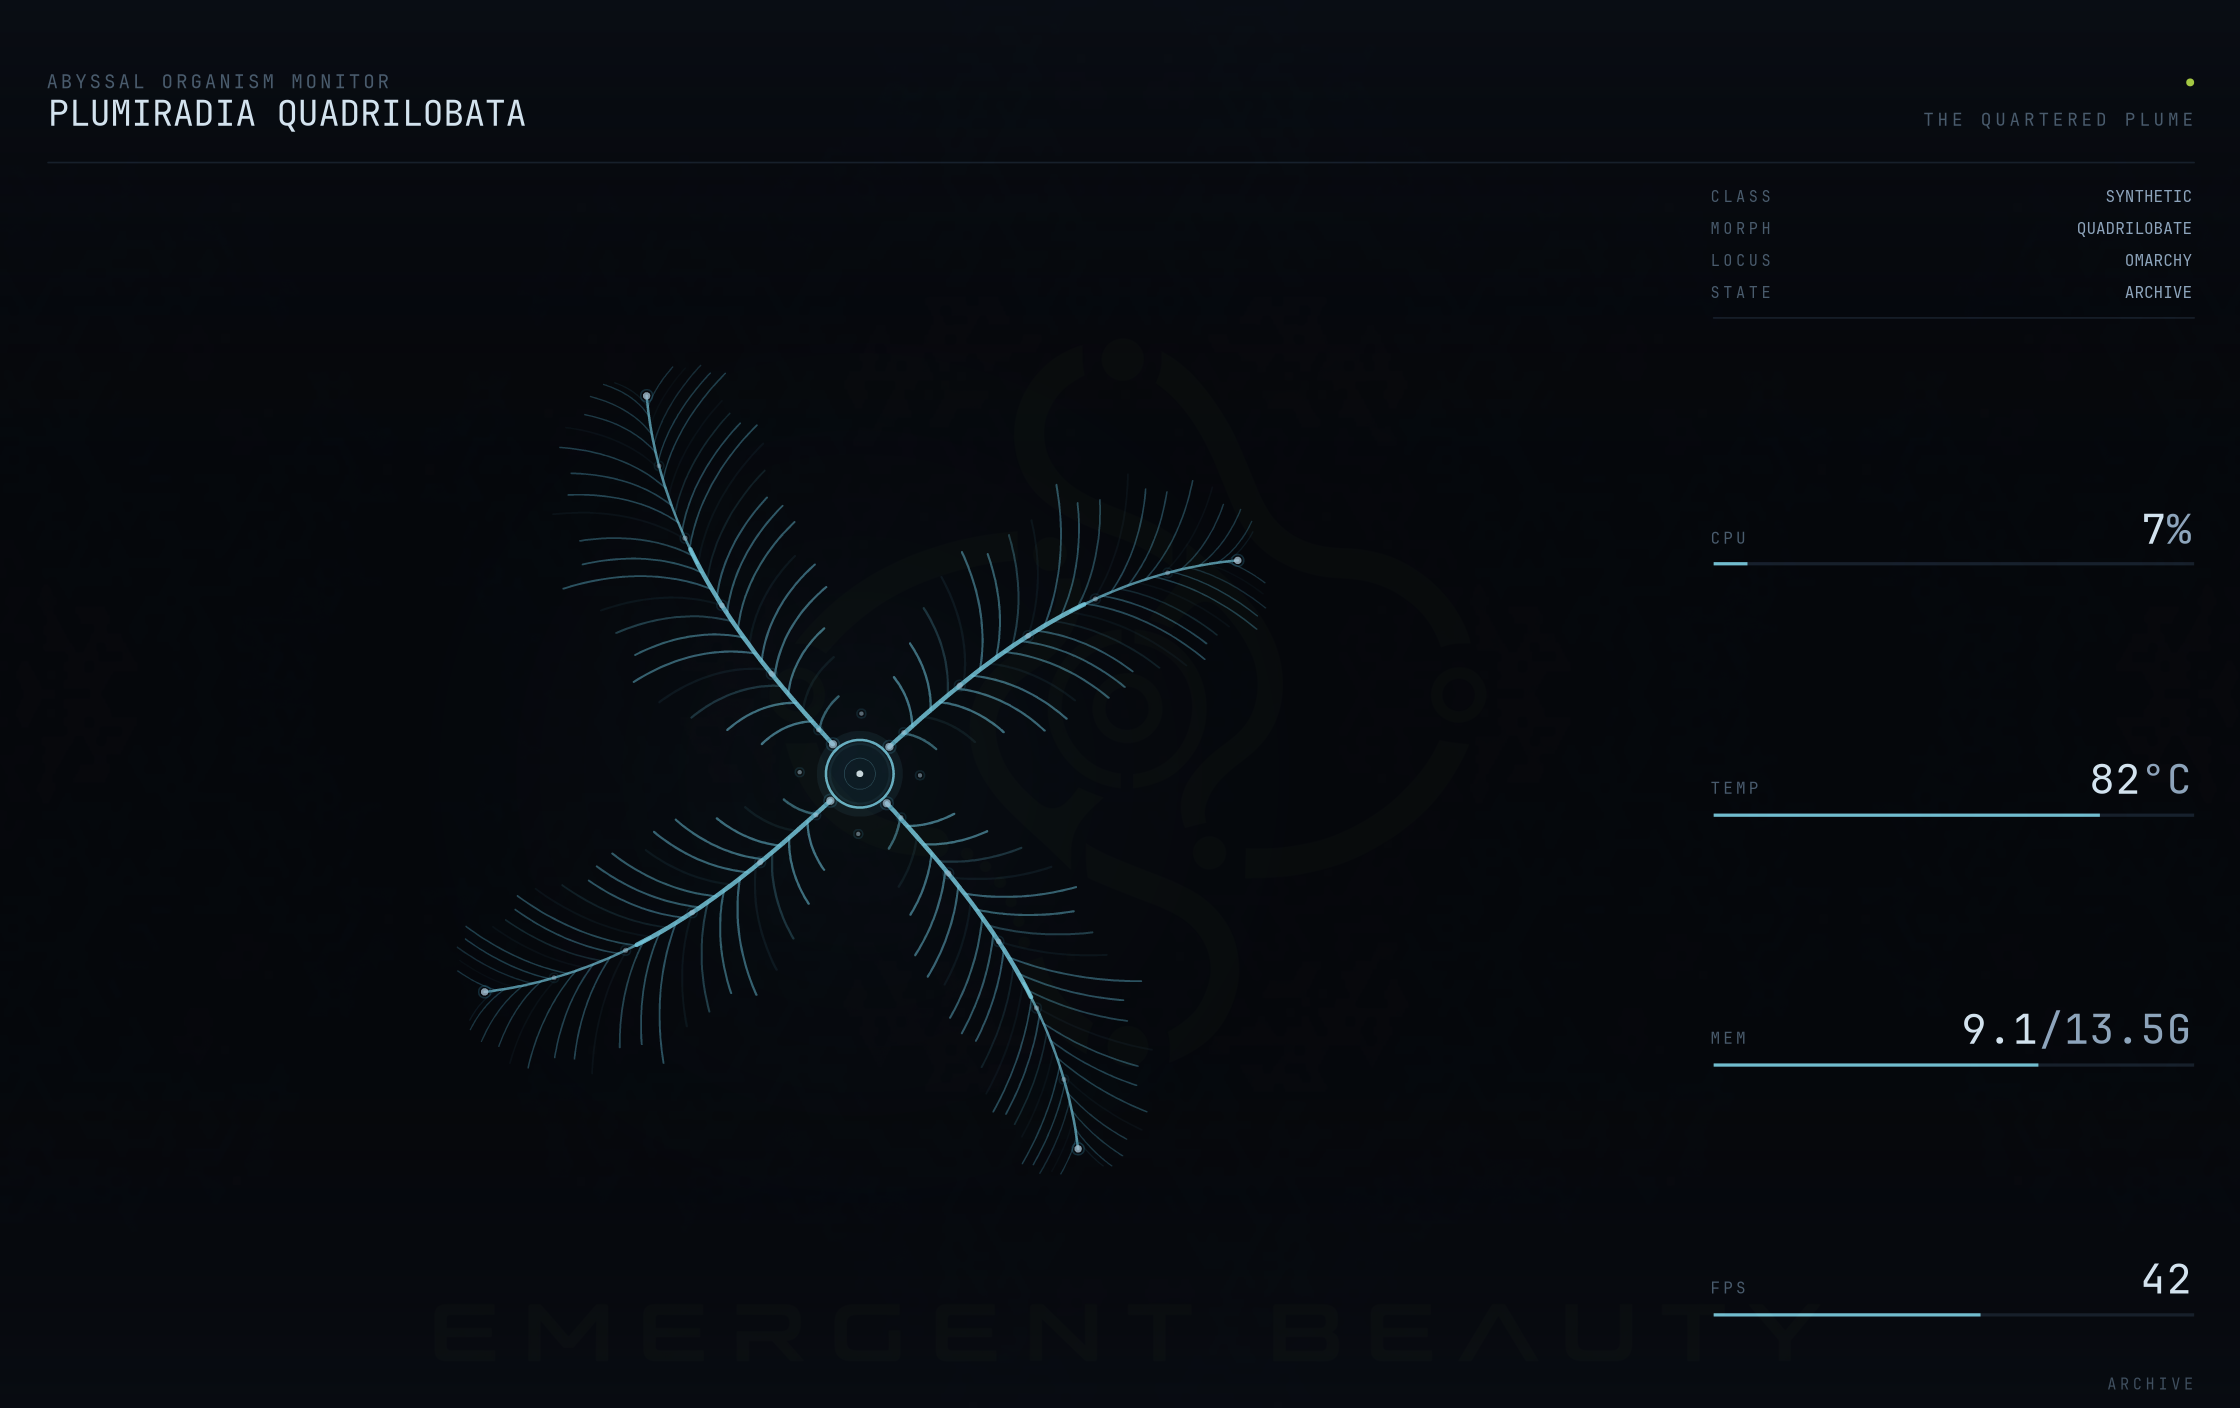
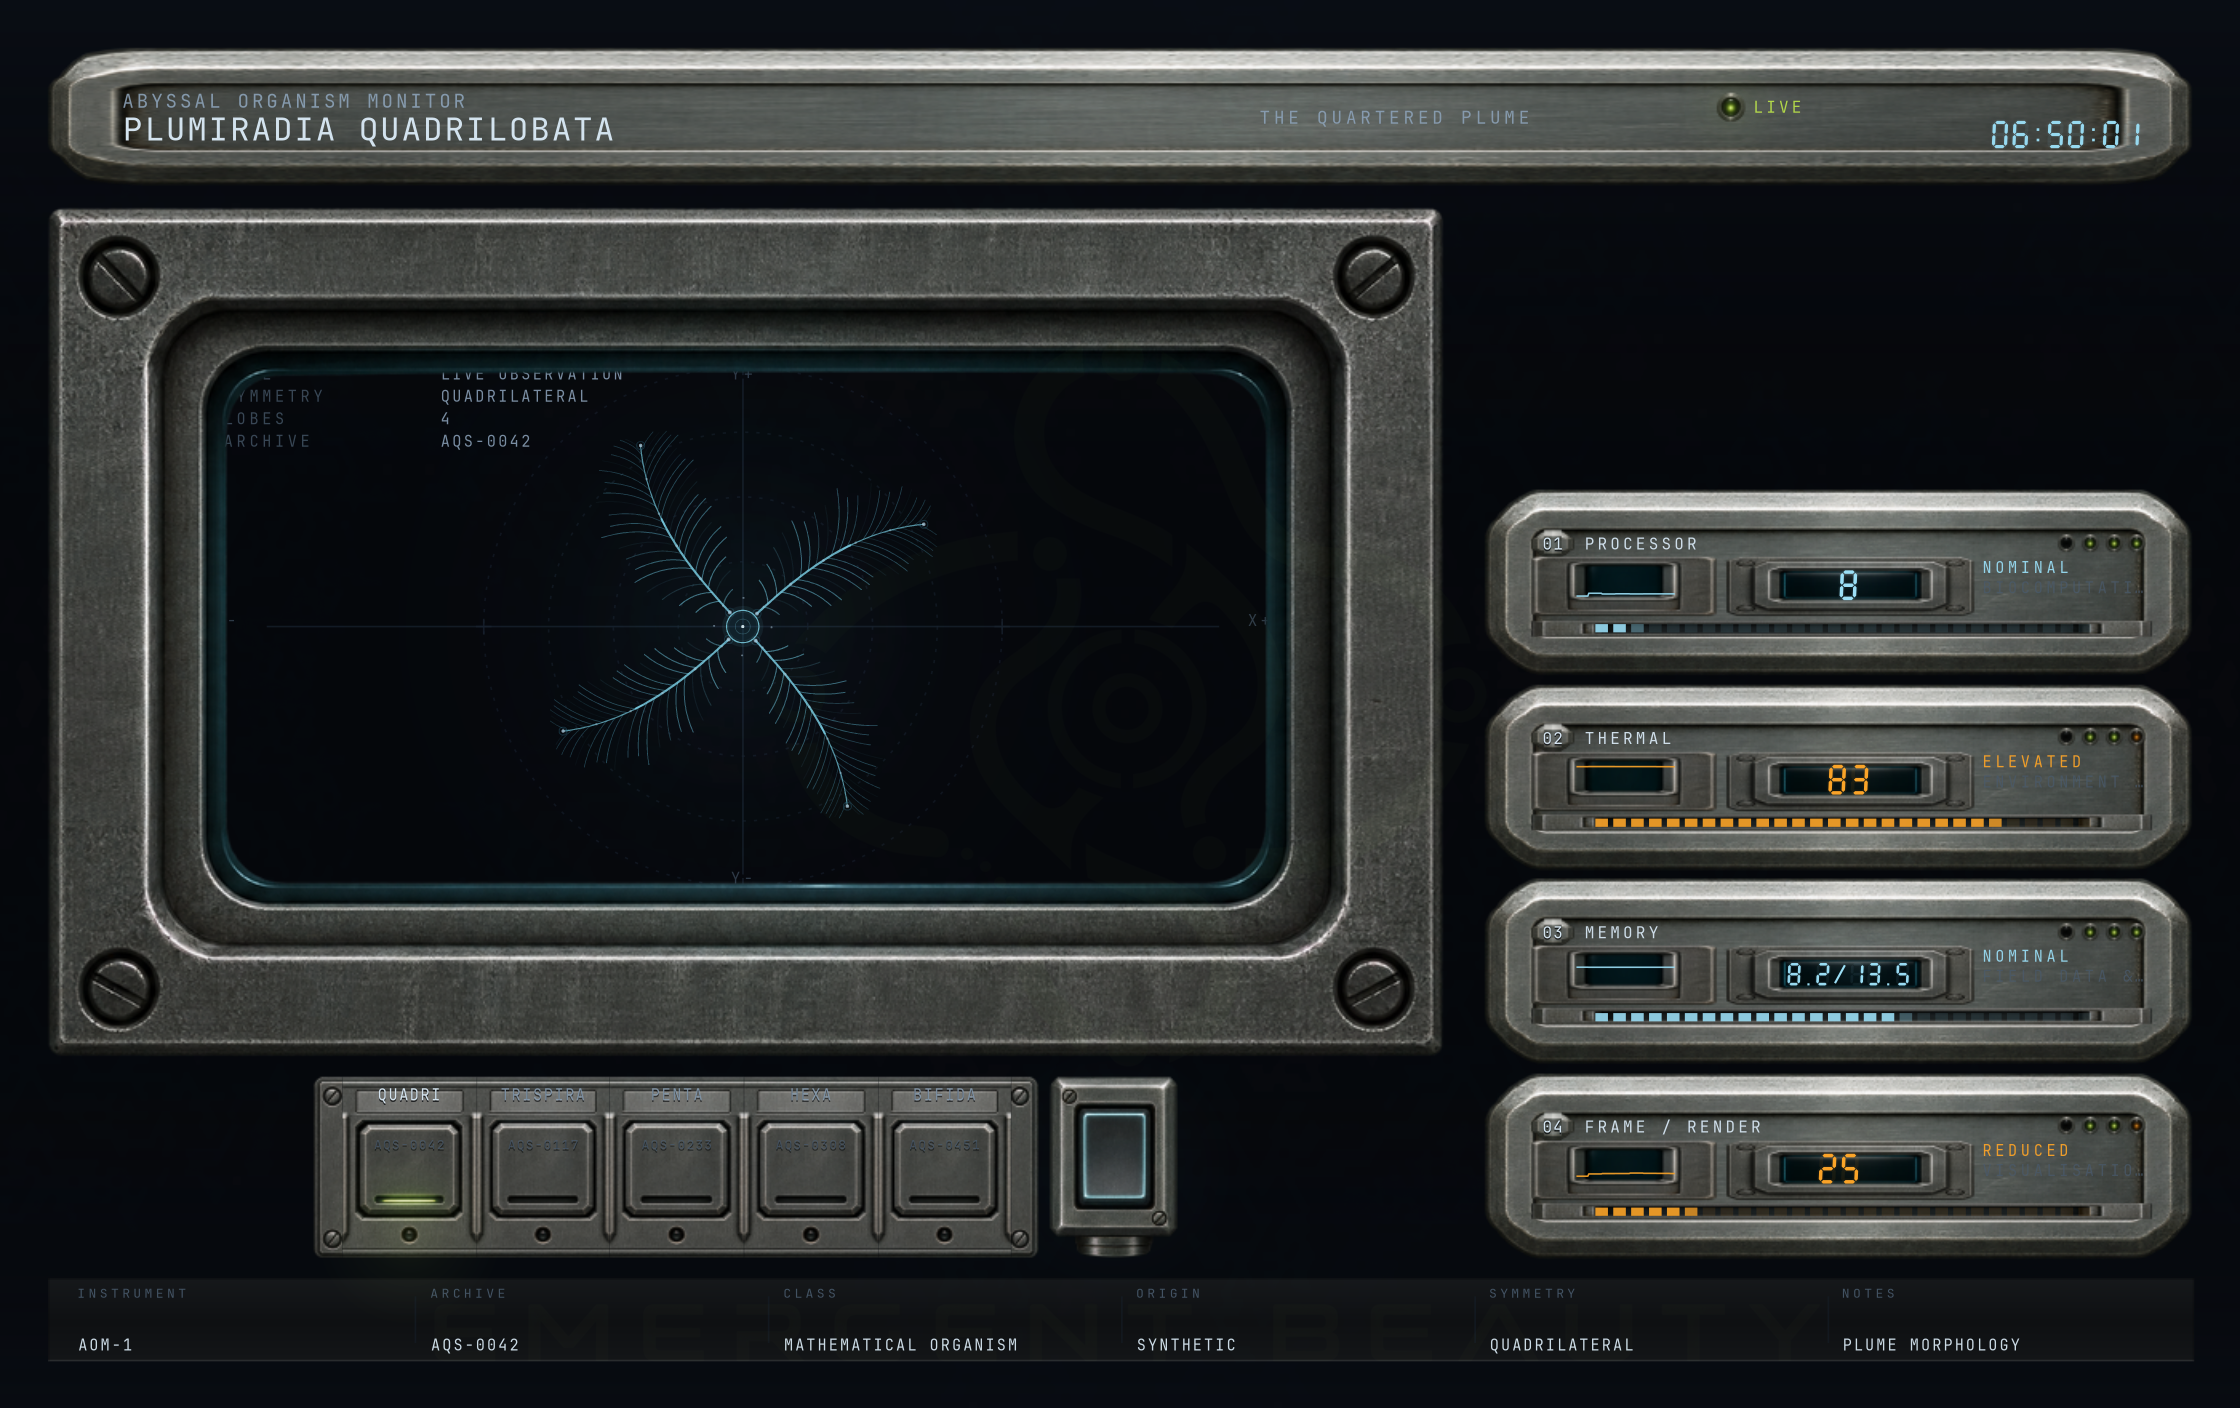
Short headers use the procedural rail; capture state screenshots
At COMPACT the header is 34px, and the recessed plaque's ~18px bevel left
under 10px of interior - the specimen name had nowhere to go. Headers below
the plaque's bevel depth now draw the same inset strip the archive rail uses.

Adds docs/shots: the three layout states plus all five specimens.

diff --git a/abyssal/ui/console.py b/abyssal/ui/console.py
@@ -250,6 +250,10 @@ def _polar_grid(cr, r: Rect, alpha: float = 1.0) -> None:
     cr.restore()
 
 
+#: Under this height the recessed plaque is all bevel; use `_rail` instead.
+_PLAQUE_MIN_H = 56.0
+
+
 def _rail(cr, r: Rect, depth: float = 0.55) -> Rect:
     """A thin machined inset strip, drawn procedurally. Returns its interior.
 
@@ -314,9 +318,16 @@ def _draw_header(cr, L: Layout, m: ConsoleModel, light: LightField) -> None:
     r = L.header
     if not r.valid:
         return
-    draw_nine(cr, C.PLATE, r.x, r.y, r.w, r.h)
-    cx, cy, cw, ch = C.PLATE.content(r.x, r.y, r.w, r.h)
-    inner = Rect(cx, cy, cw, ch)
+    # Below the plaque's own bevel depth it leaves almost no interior, so a
+    # short header uses the procedural inset strip instead of a miniature
+    # plaque with no room for a name.
+    if r.h >= _PLAQUE_MIN_H:
+        draw_nine(cr, C.PLATE, r.x, r.y, r.w, r.h)
+        cx, cy, cw, ch = C.PLATE.content(r.x, r.y, r.w, r.h)
+        inner = Rect(cx, cy, cw, ch)
+    else:
+        inner = _rail(cr, r)
+        ch = inner.h
     t = L.type
     sp = m.species
 
